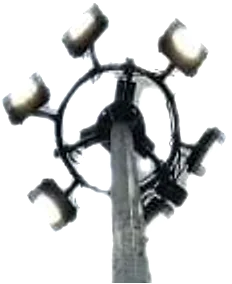
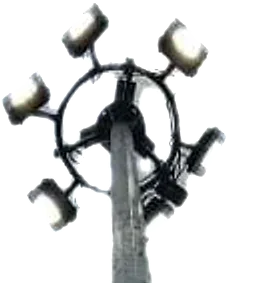
Light finder reworked, the page grows on wide screens, masts centred, real photo for factory step 7, no cache purges for product pictures
- Light finder: the question and its lede on one row; places and picks side by side (only the shorter places column
  pinned, so nothing hides under the menu); picks' specs as label/value rows (no broken 12.8 V · 15 Ah); stacked tiles
  + one row of picks at 1021-1180 px.
- Past 1600 px (big monitors, or a browser zoomed out) --px grows with the screen, up to 2x at 3200 px; scale.mjs
  leaves the --px line itself alone; the hero column is in px (rem did not scale).
- High-mast cutouts padded so the pole sits in the middle of the card.
- Factory step 7 and the project samples use the original site photos (assets/img/work/), not the product cutouts.
- Product pictures carry ?v=<deploy time> (products.js, stamped by deploy.sh; live.js for the console's list), so a
  replaced picture shows after a deploy without purging Cloudflare.

diff --git a/assets/css/gs.css b/assets/css/gs.css
@@ -98,8 +98,10 @@ html[data-theme="light"].nav-dark .nav {
   --nav-h: 64px;
 
   /* size: deploy.sh (scale.mjs) writes every length in the stylesheets as N × --px, so the live site shows at 90% on
-     every screen, like a browser zoomed out. In the source files lengths are plain px (100%). */
-  --px: .9px;
+     every screen, like a browser zoomed out. In the source files lengths are plain px (100%). Past 1600 px wide (a big
+     monitor, or a browser zoomed out) the whole page grows with the screen instead of shrinking into the middle of it,
+     up to twice the size at 3200 px. */
+  --px: clamp(.9px, .05625vw, 1.8px);   /* scale.mjs leaves this one line as it is */
 }
 
 /* ------------------------------------------------------------------ base */
@@ -556,9 +558,19 @@ html.js:not(.gs-up) .rv, html.js:not(.gs-up) [data-hero-line] { animation: gs-sh
 .peek img { width: auto; height: auto; max-width: 100%; max-height: 100%; filter: drop-shadow(0 20px 26px rgba(0, 0, 0, .55)); }
 
 /* ---------- light finder */
-.finder-grid { display: grid; grid-template-columns: minmax(0, 5fr) minmax(0, 7fr); gap: clamp(32px, 5vw, 96px); align-items: start; }
-.finder-grid > :first-child { position: sticky; top: calc(var(--nav-h) + 40px); }
+/* the question and its lede share one row; under them the places (pinned while the picks scroll past: the shorter column)
+   and the picks */
+.finder-top { display: grid; grid-template-columns: minmax(0, 7fr) minmax(0, 5fr); gap: var(--s5) clamp(32px, 5vw, 96px); align-items: end; margin-bottom: var(--s7); }
+.finder-top .h2 { margin: 0; }
+.finder-top .lede { padding-bottom: .6em; }
+.finder-grid { display: grid; grid-template-columns: minmax(0, 5fr) minmax(0, 7fr); gap: clamp(28px, 4vw, 64px); align-items: start; }
+.finder-grid > :first-child { position: sticky; top: calc(var(--nav-h) + 24px); }
 .finder-opts { display: grid; gap: var(--s2); margin-top: var(--s6); }
+.finder-grid .finder-opts { margin-top: 0; }
+/* compact picks, three abreast: each spec on its own label / value row, so "12.8 V · 15 Ah" never breaks in two */
+.finder-grid .card-specs { grid-template-columns: 1fr; padding-top: var(--s2); }
+.finder-grid .card-specs div, .finder-grid .card-specs div + div { display: flex; justify-content: space-between; align-items: baseline; gap: 8px; padding: 6px 0 0; border-left: 0; }
+.finder-grid .card-specs dd { min-height: 0; margin: 0; text-align: right; white-space: nowrap; }
 .finder-grid .cards { grid-template-columns: repeat(auto-fill, minmax(min(100%, 230px), 1fr)); }
 .finder-grid .card-stage { height: 220px; }
 .finder-grid .card [data-more], .finder-grid .card-more { display: none; } /* compact picks: Enquire + add only */
@@ -829,6 +841,11 @@ a.reach-card:hover { transform: translateX(6px); }
   .cmd { position: relative; top: auto; }
   .ftr-grid { grid-template-columns: 1fr 1fr; }
   .nav-clock { display: none; }
+  /* light finder: too narrow for places and picks side by side, so the places become tiles and the three picks one row */
+  .finder-grid { grid-template-columns: 1fr; }
+  .finder-grid > :first-child { position: static; }
+  .finder-grid .finder-opts { grid-template-columns: repeat(2, minmax(0, 1fr)); }
+  .finder-grid .cards { grid-template-columns: repeat(3, minmax(0, 1fr)); }
 }
 @media (min-width: 1021px) {
   .menu { display: none; }
@@ -844,6 +861,7 @@ a.reach-card:hover { transform: translateX(6px); }
   .facts { grid-template-columns: 1fr 1fr; }
   .facts div:nth-child(3) { padding-left: 0; border-left: 0; }
   .finder-grid { grid-template-columns: 1fr; }
+  .finder-top { grid-template-columns: 1fr; align-items: start; margin-bottom: var(--s6); } .finder-top .lede { padding-bottom: 0; }
   .finder-grid > :first-child { position: static; }
   .contact-grid { grid-template-columns: 1fr; }
   .day-hud { grid-template-columns: 1fr; align-items: end; padding-top: 0; padding-bottom: 56px; }

diff --git a/assets/js/work-data.js b/assets/js/work-data.js
@@ -10,7 +10,7 @@ window.GS_PROJECTS = window.GS_PROJECTS || [   // the console's projects (live.j
     title: 'High mast for a market square', type: 'High mast', year: 2025,
     place: 'Guwahati', district: 'Kamrup Metropolitan', state: 'Assam', lat: 26.14, lng: 91.74,
     lights: 4, products: ['mast-20m-100w'],
-    photos: ['assets/img/products/mast-20m-100w.webp'],
+    photos: ['assets/img/work/site-mast-20m-100w.webp'],
     text: 'Sample entry. Describe the site, what was installed and anything the client said.'
   },
   {
@@ -26,7 +26,7 @@ window.GS_PROJECTS = window.GS_PROJECTS || [   // the console's projects (live.j
     title: 'Six-head mast for a playground', type: 'High mast', year: 2025,
     place: 'Shillong', district: 'East Khasi Hills', state: 'Meghalaya', lat: 25.58, lng: 91.89,
     lights: 6, products: ['mast-30m-150w'],
-    photos: ['assets/img/products/mast-30m-150w.webp'],
+    photos: ['assets/img/work/site-mast-30m-150w.webp'],
     text: 'Sample entry.'
   },
   {
@@ -50,7 +50,7 @@ window.GS_PROJECTS = window.GS_PROJECTS || [   // the console's projects (live.j
     title: 'Highway junction, 20 m mast', type: 'High mast', year: 2026,
     place: 'Itanagar', district: 'Papum Pare', state: 'Arunachal Pradesh', lat: 27.08, lng: 93.6,
     lights: 4, products: ['mast-20m-200w'],
-    photos: ['assets/img/products/mast-20m-200w.webp'],
+    photos: ['assets/img/work/site-mast-20m-200w.webp'],
     text: 'Sample entry.'
   }
 ];
@@ -66,7 +66,7 @@ window.GS_FACTORY = {   // the steps live here; the photos and videos come from 
     { icon: 'sun', img: 'assets/img/products/panel-400w.webp', facts: ['Matched panel', 'Dusk to dawn', 'Charge controller'], title: 'Panel and controller', text: 'The solar panel is matched to the battery; the controller switches the light on at dusk, off at dawn, and stretches the charge on cloudy days.' },
     { icon: 'shield', img: 'assets/img/products/aio-20w.webp', facts: ['IP66', 'Rain', 'Dust'], title: 'Sealed to IP66', text: 'The housing is sealed against rain, dust and hosing: built for the North-East monsoon.' },
     { icon: 'check', img: 'assets/img/products/si-30w.webp', facts: ['Charged', 'Switched on', 'Checked'], title: 'Tested before it leaves', text: 'Lights are charged, switched on and checked before they are packed.' },
-    { icon: 'truck', img: 'assets/img/products/mast-30m-150w.webp', facts: ['North-East install', 'PAN India supply'], photo: true, title: 'Out to the road', text: 'Our crew installs across the North-East; we ship and support PAN India.' }
+    { icon: 'truck', img: 'assets/img/work/site-mast-20m-100w.webp', facts: ['North-East install', 'PAN India supply'], photo: true, title: 'Out to the road', text: 'Our crew installs across the North-East; we ship and support PAN India.' }
   ],
   media: window.GS_FACTORY_MEDIA || [
     { type: 'photo', src: 'assets/img/products/battery-100ah.webp', caption: 'Battery packs', sample: true },

diff --git a/index.html b/index.html
@@ -388,15 +388,15 @@
 
   <!-- LIGHT FINDER ==================================================== -->
   <section class="sec" id="finder" aria-labelledby="finder-h" style="padding-top:0">
-    <div class="wrap finder-grid">
-      <div class="rv">
-        <div class="sec-head"><span class="label no">№ 06</span><span class="label">Light finder</span></div>
+    <div class="wrap">
+      <div class="sec-head rv"><span class="label no">№ 06</span><span class="label">Light finder</span><span class="rule"></span><span class="label">Six kinds of place</span></div>
+      <div class="finder-top rv">
         <h2 class="h2" id="finder-h">What are you <span class="it grad">lighting?</span></h2>
         <p class="lede">Pick a place and we'll suggest a starting point. Before you buy, our engineers check the site and size the system properly.</p>
-        <div class="finder-opts" role="radiogroup" aria-label="What are you lighting?" data-finder></div>
       </div>
-      <div class="rv" style="--d:.1s">
-        <div data-finder-out></div>
+      <div class="finder-grid">
+        <div class="finder-opts rv" role="radiogroup" aria-label="What are you lighting?" data-finder></div>
+        <div class="finder-out rv" style="--d:.1s" data-finder-out></div>
       </div>
     </div>
   </section>

diff --git a/assets/css/hero-beam.css b/assets/css/hero-beam.css
@@ -98,9 +98,9 @@ html:not(.js) .hb-lit::after { content: none; }
 
 /* lede + CTAs: one column under the headline, the buttons right under the words they belong to;
    side by side on shorter windows, the buttons still next to the lede rather than across the screen */
-.hb .hero-row { grid-template-columns: minmax(0, 36rem); justify-content: start; align-items: start; gap: var(--s5); margin-top: var(--s6); }
+.hb .hero-row { grid-template-columns: minmax(0, 640px); justify-content: start; align-items: start; gap: var(--s5); margin-top: var(--s6); }
 @media (max-height: 720px) and (min-aspect-ratio: 4/5) {
-  .hb .hero-row { grid-template-columns: minmax(0, 34rem) auto; align-items: center; column-gap: var(--s6); }
+  .hb .hero-row { grid-template-columns: minmax(0, 604px) auto; align-items: center; column-gap: var(--s6); }
 }
 .hb .lede { text-shadow: 0 0 2px rgba(5, 5, 7, .9), 0 0 12px rgba(5, 5, 7, .85), 0 0 32px rgba(5, 5, 7, .7); }
 

diff --git a/assets/js/work.js b/assets/js/work.js
@@ -45,7 +45,8 @@
     const byId = {}; P.forEach(function (p) { byId[p.id] = p; });
     // a catalogue cut-out (transparent product shot) sits whole on a glowing stage; a real photo fills the card
     const NOPHOTO = 'assets/brand/favicon.svg?v=1';   // a project saved before its photos are added
-    const cut = function (src) { return src === NOPHOTO || GS.products.some(function (x) { return x.img === src; }); };
+    const bare = function (u) { return String(u).split('?')[0]; };   // product pictures carry the deploy's ?v=
+    const cut = function (src) { return src === NOPHOTO || GS.products.some(function (x) { return bare(x.img) === bare(src); }); };
     P.forEach(function (p) { if (!p.photos || !p.photos.length) p.photos = [NOPHOTO]; });
     const where = function (p) { return [p.place, p.district !== p.place ? p.district : '', p.state].filter(Boolean).join(', '); };
 

diff --git a/assets/js/products.js b/assets/js/products.js
@@ -2,6 +2,9 @@
    Every card on the Products page and the home page is built from this list. */
 (function () {
   const IMG = 'assets/img/products/';
+  // Product pictures keep their names, and /assets/img is cached for a week (browsers and Cloudflare's edge). deploy.sh
+  // stamps this ?v= with the deploy time, so a replaced picture shows after the next deploy without purging any cache.
+  const V = window.GS_IMGV = '?v=1';
 
   // shared by every semi-integrated street light in the catalogue
   const SI_COMMON = [
@@ -384,5 +387,6 @@
   ];
 
   // sort order inside each category on the Products page
-  window.GS_PRODUCTS.forEach(function (p, i) { p.order = i; });
+  window.GS_PRODUCTS.forEach(function (p, i) { p.order = i; p.img += V; });
+  window.GS_CATEGORIES.forEach(function (c) { c.img += V; });
 })();

diff --git a/assets/js/live.js b/assets/js/live.js
@@ -21,6 +21,7 @@
       p.specs = Array.isArray(p.specs) ? p.specs : [];
       p.tags = Array.isArray(p.tags) ? p.tags : [];
       p.img = typeof p.img === 'string' && p.img ? p.img : 'assets/brand/favicon.svg?v=1';   // no photo yet (e.g. just imported): the sun, not a broken image
+      if (/^assets\/img\/products\/[^?]+$/.test(p.img)) p.img += window.GS_IMGV || '';   // this deploy's copy (products.js)
       p.part = p.part || '';
       return p;
     });
